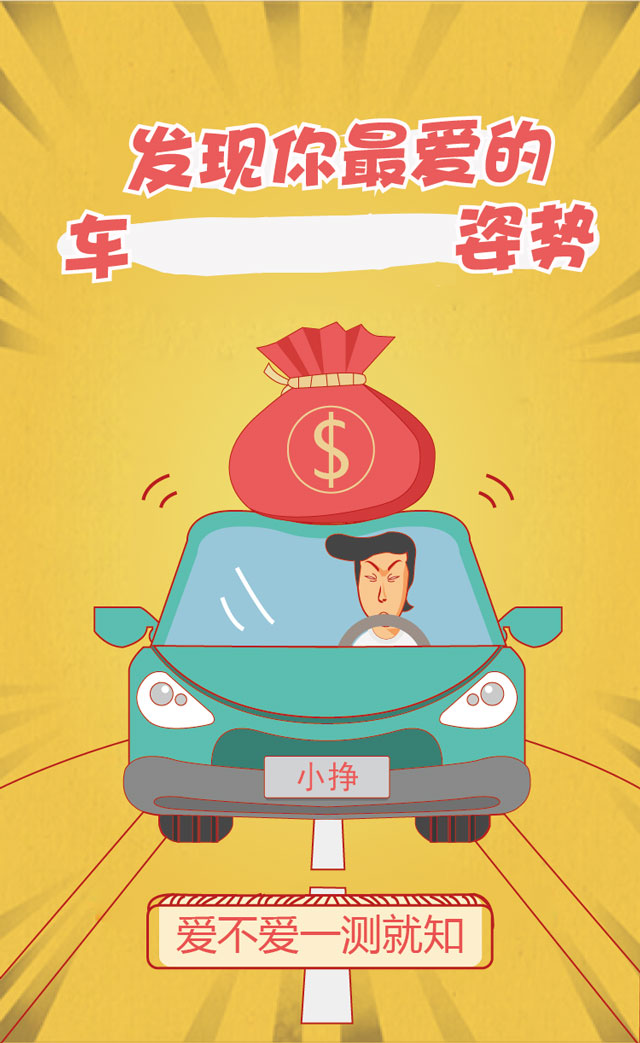
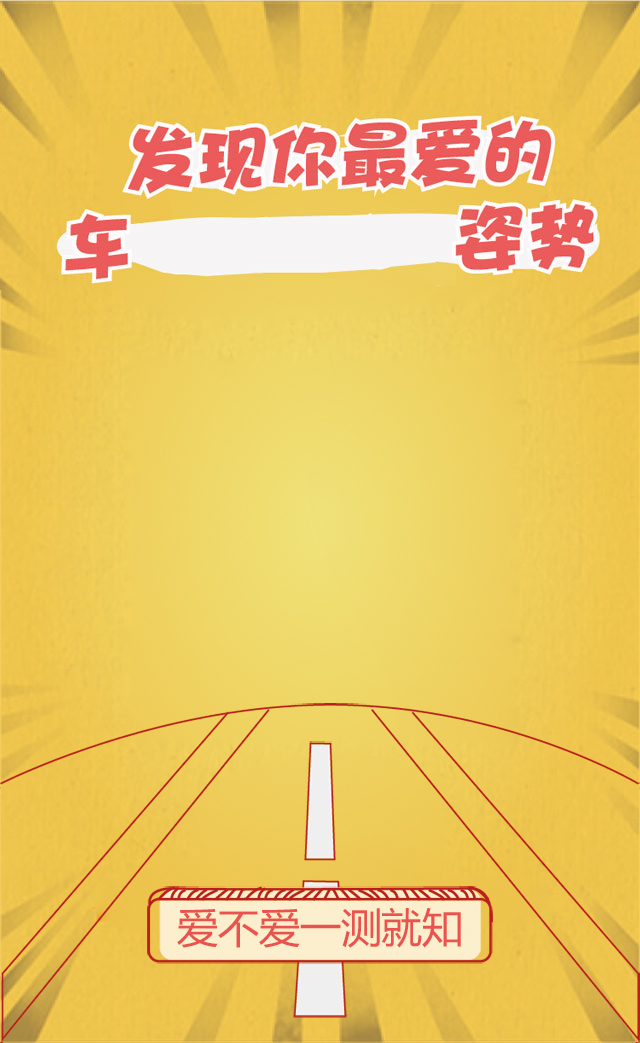
修改

diff --git a/css/style.css b/css/style.css
@@ -4211,6 +4211,16 @@ html#html body {
   left: 3.1rem;
   -webkit-animation: swing 1.3s 0s linear both infinite;
 }
+.Y5-cons .sc-con-1 .sc-2 {
+  background: url(../images/sc-1-1.png) no-repeat;
+  width: 10.13043478rem;
+  height: 12.5rem;
+  background-size: cover;
+  position: absolute;
+  top: 9.25rem;
+  left: 3.1rem;
+  -webkit-animation: zoomIn 1.5s 0s ease both ;
+}
 .Y5-cons .sc-con-2 .sc-1 {
   background: url(../images/sc-2-1.png) no-repeat;
   width: 2.9rem;

diff --git a/css/style.less b/css/style.less
@@ -1605,6 +1605,16 @@ html#html body {height: 100%;}
 			left: 62*@rem;
 			.swing;
 		}
+		.sc-2{
+			background: url(../images/sc-1-1.png) no-repeat;
+			width: 466/2.3*@rem;
+			height: 575/2.3*@rem;
+			background-size: cover;
+			position: absolute;
+			top: 185*@rem;
+			left: 62*@rem;
+			.zoomIn;
+		}
 	}
 	.sc-con-2{
 		.sc-1{

diff --git a/Y5-1.php b/Y5-1.php
@@ -17,6 +17,7 @@
             </div>
             <div class="sc-con-1">
                 <div class="sc-1"></div>
+                <div class="sc-2"></div>
             </div>
             <a href="Y5-2.php" class="hbtn btn1-1"></a>
         </div>
